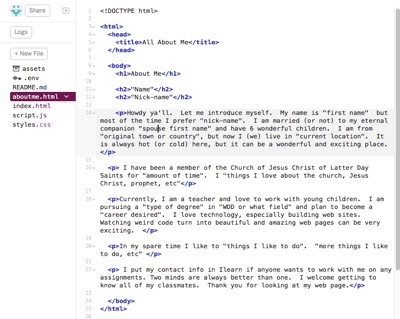
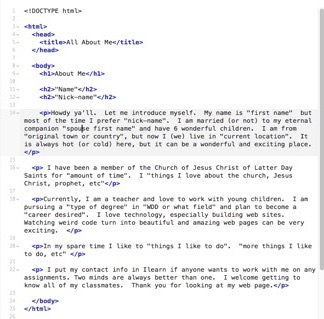
about me converted to thimble

diff --git a/activities/aboutme.html b/activities/aboutme.html
@@ -13,8 +13,12 @@
 
 <body>
     <div id="content">
-        <header>
-            <img src="../images/smallBanner.jpg" alt="Course Banner" />
+        <header class="headerBanner">
+            <div>
+                <h1>
+                    <span>WEB</span> Fundamentals</h1>
+                <h2>WDD 130</h2>
+            </div>
         </header>
         <main>
             <h1>An&nbsp;"About Me" Web Page</h1>
@@ -124,10 +128,23 @@
                 <li>
                     <!-- START STEP -->
                     <h2>Our first HTML</h2>
-                    <p>Let's write some HTML. Open (log into) Glitch, and create a new file called
-                        <code>aboutme.html</code>. (It needs to be exactly
-                        <code>aboutme.html</code>. No caps, no spaces.) Click on the
-                        <code>aboutme.html</code> file and type the HTML below.</p>
+
+                    <p>Let's write some HTML. Open (log into) Thimble, and create a new HTML file. Then rename the file
+                        <kbd>aboutme.html</kbd>. (It needs to be exactly
+                        <kbd>aboutme.html</kbd>. No caps, no spaces.) Click on the
+                        <kbd>aboutme.html</kbd> file to open it in the editor and remove all of the contents. Then type the HTML
+                        below.
+                    </p>
+                    <div class="fig-block ">
+                        <figure>
+                            <img alt="Create a file" src="../images/thimble-create-file.jpg" title="Create a file" />
+                            <figcaption>Creating a file in Thimble</figcaption>
+                        </figure>
+                        <figure>
+                            <img alt="rename a file" src="../images/thimble-rename.jpg" title="Rename a file" />
+                            <figcaption>Renaming a file in Thimble</figcaption>
+                        </figure>
+                    </div>
                     <p>This code contains everything you need for a basic web page. It has most of the items listed above. Tags,
                         elements, nesting, parent elements, child elements, and semantics. Can you spot them all?</p>
                     <div class="callout">
@@ -156,8 +173,7 @@
     &lt;/main&gt;
 &lt;/body&gt;
 
-&lt;/html&gt;
-        </code></pre>
+&lt;/html&gt;</code></pre>
 
 
                     </div>
@@ -166,21 +182,28 @@
                 <li>
                     <!-- START STEP -->
                     <h2>Titles and Headlines</h2>
-                    <p>A visitor to a website should not have to guess what the page is about. The &lt;title&gt;&nbsp;says "All
-                        About Me". Although you can see "All About Me" looking at the html, it will not show up on the page.&nbsp;
-                        This is because &lt;title&gt; is in the &lt;head&gt; section and anything in the &lt;head&gt; is
-                        not seen in the browser window.&nbsp; &nbsp;Only items in the &lt;body&gt; section are actually seen
-                        on the page. The &lt;title&gt; shows up as the name of the tab or window.</p>
+                    <p>A visitor to a website should not have to guess what the page is about. The
+                        <code>&lt;title&gt;</code> says "All About Me". Although you can see "All About Me" looking at the html, it will not show up
+                        on the page.&nbsp; This is because
+                        <code>&lt;title&gt;</code> is in the
+                        <code>&lt;head&gt;</code> section and anything in the
+                        <code>&lt;head&gt;</code> is not seen in the browser window. Only items in the
+                        <code>&lt;body&gt;</code> section are actually seen on the page. The
+                        <code>&lt;title&gt;</code> shows up as the name of the tab or window.</p>
                     <p>We can use a headline element on our page so that when someone visits your page, they will know what
                         your page is about.</p>
                     <div class="callout">
-                        <p>There are various sizes of headlines: &lt;h1&gt; - &lt;h6&gt; These can be used to establish a hierarchy
-                            for your page. The
-                            <em>smaller</em> the number with the h like &lt;h1&gt; for instance, the
-                            <em>larger</em> the text and the more important the headline should be. An &lt;h1&gt; for example
-                            should be used for the
-                            <em>most important</em> title on the page. You should only use one &lt;h1&gt; on your page.</p>
-                        <p>&lt;h2&gt; tags would be the next level and you can use as many as you need. Think about the structure
+                        <p>There are various sizes of headlines:
+                            <code>&lt;h1&gt;</code> -
+                            <code>&lt;h6&gt;</code> These can be used to establish a hierarchy for your page. The
+                            <em>smaller</em> the number with the h like
+                            <code>&lt;h1&gt;</code> for instance, the
+                            <em>larger</em> the text and the more important the headline should be. An
+                            <code>&lt;h1&gt;</code> for example should be used for the
+                            <em>most important</em> title on the page. You should only use one
+                            <code>&lt;h1&gt;</code> on your page.</p>
+                        <p>
+                            <code>&lt;h2&gt;</code> tags would be the next level and you can use as many as you need. Think about the structure
                             of this course. It is broken up into weeks and activities. An outline using headline elements
                             would look like the following:</p>
                         <div class="outline">
@@ -203,8 +226,9 @@
                         <code>&lt;p&gt;</code>&nbsp;elements and add an&nbsp;
                         <code>&lt;h1&gt;</code>opening tag,&nbsp;and type "About Me".&nbsp; Then enter&nbsp;
                         <code>&lt;/h1&gt;</code>&nbsp;to close the element. Let's add a sub-heading or two as well.&nbsp; Let's use &lt;h2&gt; (smaller
-                        text) and put your first name and your nickname if you have one.&nbsp; Do this right after the &lt;h1&gt;
-                        About Me&lt;/h1&gt;:
+                        text) and put your first name and your nickname if you have one.&nbsp; Do this right after the
+                        <code>&lt;h1&gt;
+                        About Me&lt;/h1&gt;</code>:
                     </p>
                     <div class="callout">
                         <p>Now your code should look like this:</p>
@@ -230,8 +254,7 @@
         &lt;p&gt;Hello World!&lt;/p&gt;
     &lt;/main&gt;
     &lt;/body&gt;
-&lt;/html&gt;
-        </code></pre>
+&lt;/html&gt;</code></pre>
 
 
                     </div>
@@ -270,12 +293,12 @@
                     <p>When you have finished adding your paragraphs you will want to view your webpage. To do this click on
                         the "Show" button at the top left of the screen. "Show" always starts with the
                         <strong>
-                            <code>index.html</code>
+                            <kbd>index.html</kbd>
                         </strong> page, but you can click on the link we created there to see the
                         <strong>
-                            <code>aboutme.html</code>
-                        </strong> page instead. Once you are on that page you can hit Refresh on your browser to see additional
-                        changes as you make them. Your page and HTML might look something like the images below:</p>
+                            <kbd>aboutme.html</kbd>
+                        </strong> page instead. Once you are on that page you can hit Refresh on your browser to see additional changes
+                        as you make them. Your page and HTML might look something like the images below:</p>
                     <div class="fig-block">
                         <figure>
                             <img alt="About me html" src="../images/about-me-step5-html.jpg" title="About me html" />
@@ -293,46 +316,48 @@
                     <h2>Add an image</h2>
                     <p>Look's good, but it is a little plain.&nbsp;Let's add an image to dress up your page.</p>
 
-                    <p>Before you can put an image on your web page, you have to get it onto a web server. Lucky for us Glitch
-                        makes this easy. We simply need to upload the image from your computer to your assets folder in Glitch.
-                        Click on the assets link and then drag and drop your image to the assets page.&nbsp; Then to put
-                        the image on your page, click on the image and then click on the"copy url" button.&nbsp; That puts
-                        the image link on your clipboard so that you can paste it into the image tag:&nbsp; &nbsp; &nbsp;&nbsp;</p>
+                    <p>Before you can put an image on your web page, you have to get it onto a web server. Lucky for us Thimble
+                        makes this easy. We simply need to upload the image from your computer to your project in Thimble.
+                        To do this simply drag the image file onto the browser window where you have Thimble open. Many images
+                        do not have reader friendly names. You can see in the image below I uploaded an image called
+                        <kbd>IMG_5684.jpg</kbd> to my project. I'm going to rename it just like I did the HTML file we created
+                        earlier to something a little easier to remember. If you click on the image name it will open in
+                        the editor so you can see what it is.</p>
+                    <p>It also include a couple of nice bits of info. At the top you will see some colors that Thimble extracted
+                        from your image. Below the image you can see an HTML example of how you would use this image in your
+                        page.
+                    </p>
                     <div class="fig-block">
                         <figure>
-                            <img alt="Glitch adding assets" src="../images/glitch-asset1.png" title="Glitch adding assets" />
-                            <figcaption>Assets Tab</figcaption>
+                            <img alt="Thimble adding images" src="../images/thimble-rename-image.jpg" title="Thimble adding images" />
+                            <figcaption>Rename an Image</figcaption>
                         </figure>
                         <figure>
-                            <img alt="Glitch adding assets" src="../images/glitch-asset2.png" title="Glitch adding assets" />
-                            <figcaption>Adding an Asset</figcaption>
+                            <img alt="Thimble image details" src="../images/thimble-image-detail.jpg" title="Thimble image details" />
+                            <figcaption>Image details</figcaption>
                         </figure>
-                        <figure>
-                            <img alt="Glitch adding assets" src="../images/about-me-useassets.jpg" title="Glitch adding assets" />
-                            <figcaption>Using an Asset</figcaption>
-                        </figure>
+
                     </div>
 
                     <p>Put your image right after the &lt;h1&gt; line. You will start with the
-                        <code>img</code> tag. Images require additional information in order to work however. We have to tell the browser
+                        <code>&lt;img&gt;</code> tag. Images require additional information in order to work however. We have to tell the browser
                         where to find the image. We can use an "attribute" for this. (Remember
                         <strong>attribute</strong> was one of the vocabulary above. If you have forgotten what it is go review).
                         The attribute we need is
-                        <code>src=""</code>. Add this right after the word
-                        <code>img</code>. So it will look like this:</p>
+                        <kbd>src=""</kbd>. Add this right after the word
+                        <kbd>img</kbd>. So it will look like this:</p>
                     <pre><code class="html">&lt;img src=""&gt;</code></pre>
-                    <p>Paste the URL you copied for your image into the "" after the
+                    <p>Enter the name of your image into the "" after the
                         <code>src</code>. The final tag should look something like this:</p>
-                    <pre><code class="html">&lt;img alt="image of me" src="https://cdn.glitch.com/3de58351-6a1f-4d05-80fc-6813c05f9c98%2Ffemaleicon.png"&gt;
-        </code></pre>
-                    <p>Notice that I snuck an extra attribute in on you:
+                    <pre><code class="language-markup html">&lt;img src="r2d2.jpg" alt="Image of me?" /&gt;</code></pre>
+                    <p>Notice that Thimble and I included an extra attribute:
                         <strong>
-                            <code>alt</code>
+                            <kbd>alt</kbd>
                         </strong>. The
-                        <code>alt</code> attribute should contain a short description of the image. It is shown if the browser can't find
-                        the image or it is read for visually impaired visitors to your site.
+                        <kbd>alt</kbd> attribute should contain a short description of the image. It is shown if the browser can't
+                        find the image or it is read for visually impaired visitors to your site.
                         <strong>All</strong> of your images should have an
-                        <code>alt</code> attribute. If a tag has multiple attributes, the order of the attributes does not matter.</p>
+                        <kbd>alt</kbd> attribute. If a tag has multiple attributes, the order of the attributes does not matter.</p>
 
 
 
@@ -347,10 +372,10 @@
                             <img alt="Final Page" src="../images/about-me-final.jpg" title="Final example" />
                             <figcaption>Final Example Preview</figcaption>
                         </figure>
-                        <figure>
+                        <!-- <figure>
                             <img alt="Final Example HTML" src="../images/about-me-final-html.jpg" title="Final Example HTML" />
                             <figcaption>Final Example HTML</figcaption>
-                        </figure>
+                        </figure> -->
 
                     </div>
 
@@ -368,10 +393,11 @@
                     <div class="callout">
                         <img src="../images/edit-profile.jpg" alt="Ilearn Edit profile screen" class="right" />
                         <ol>
-                            <li>Click on your name located on the top right corner of the page.</li>
-                            <li>Select the option titled "Profile".</li>
-                            <li>Select "Change Picture" and and upload a picture of yourself from your computer.</li>
-                            <li>Close the window.</li>
+                            <li>Click on on the Account button located at the top left corner of the page.</li>
+                            <li>Select the option titled "Profile" and then the button "Edit Profile"</li>
+                            <li>Click directly on the placeholder image and either take a picture or upload a picture of yourself
+                                from your computer.</li>
+                            <li>Save your changes and close the window.</li>
                         </ol>
                     </div>
                     <!-- END STEP -->
@@ -382,9 +408,24 @@
                     <p>Lastly, go to the Getting to Know You discussion board and do the following things:</p>
                     <ol>
                         <li>Make a new post.</li>
-                        <li>Paste in the link to your About Me Web Page. (To find this open your project in Glitch then click
-                            on the Share button below the Project name in the top left corner. The link is there with a handy
-                            "copy" button.)</li>
+                        <li> Paste in the link to your About Me Web Page. (To find this open your project in Thimble then click
+                            on the "Publish" button in the top right corner of the window. If you haven't yet you must publish
+                            your site so it can be seen publicly on the web.
+                            <em>Everytime</em> you make changes that you would like the instructor or someone else to see you
+                            must "Update Published Version". After the site has been published, the link can be found near
+                            the "Update Published Version" button.)
+                            <div class="fig-block">
+                                <figure>
+                                    <img alt="Publish" src="../images/thimble-publish.png" title="Publish" />
+                                    <figcaption>Publish your project</figcaption>
+                                </figure>
+                                <figure>
+                                    <img alt="Re-publish" src="../images/thimble-republish.png" title="Republish" />
+                                    <figcaption>Re-publish your project</figcaption>
+                                </figure>
+
+                            </div>
+                        </li>
                         <li>Add contact information to the discussion board post if you would like to make that available to
                             your fellow classmates.
                         </li>

diff --git a/activities/software-setup.html b/activities/software-setup.html
@@ -13,8 +13,12 @@
 
 <body>
     <div id="content" class="byui wdd331">
-        <header>
-            <img src="../images/smallBanner.jpg" alt="Course Banner" />
+        <header class="headerBanner">
+            <div>
+                <h1>
+                    <span>WEB</span> Fundamentals</h1>
+                <h2>WDD 130</h2>
+            </div>
         </header>
         <main>
             <h1>Software Setup</h1>
